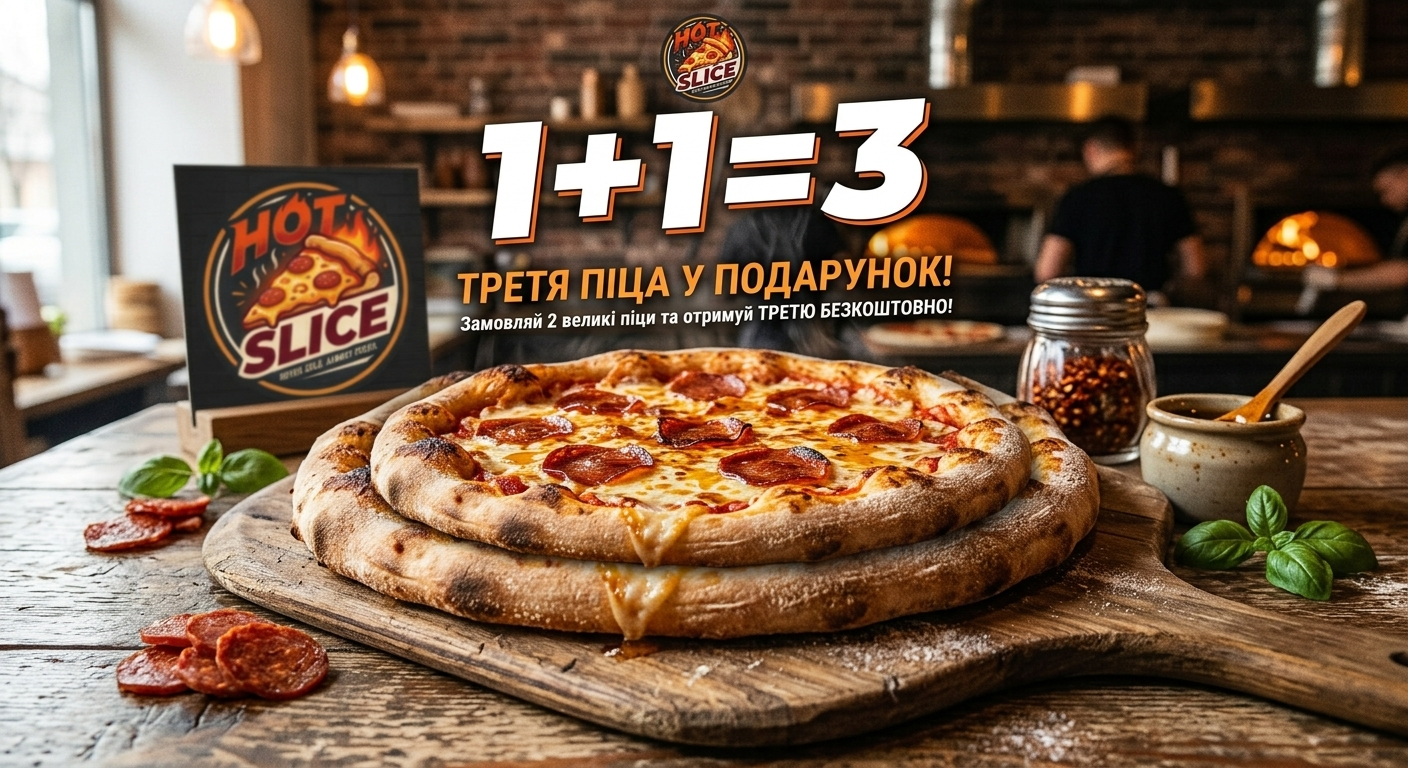
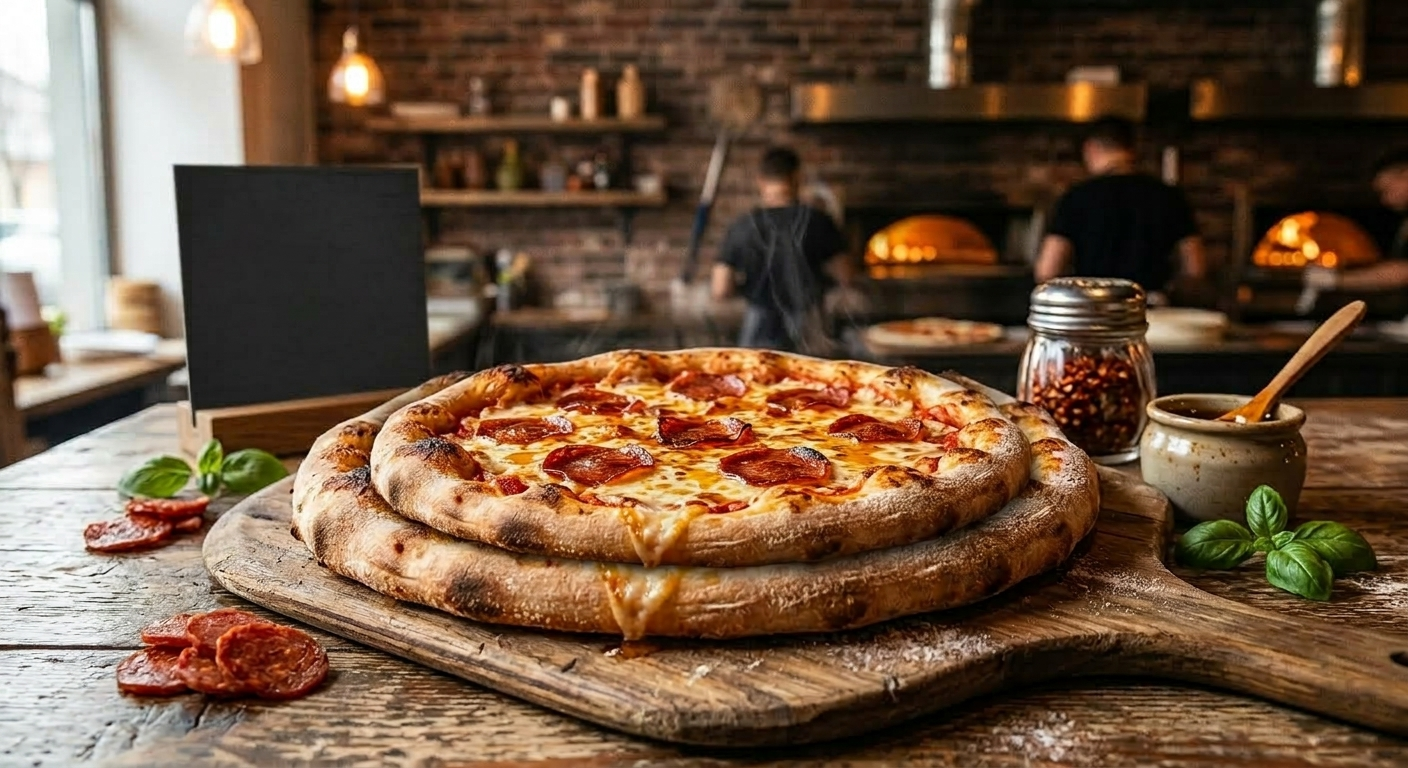
Fixed Images

diff --git a/cart.html b/cart.html
@@ -29,7 +29,7 @@
 
     </container>
     
-    <h4>Оформлення замовлення</h4>
+    <h4 class="formTitle">Оформлення замовлення</h4>
     <form class="row g-3">
   <div class="col-md-6">
     <label for="inputEmail4" class="form-label">ПІБ</label>

diff --git a/css/cart.css b/css/cart.css
@@ -73,3 +73,8 @@ footer {
     display: flex;
     justify-content: center;
 }
+
+.formTitle {
+    display: flex;
+    justify-content: center;
+}
